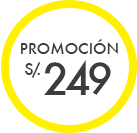
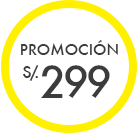
cambios de precios

diff --git a/index.html b/index.html
@@ -8,7 +8,7 @@
   ga('create', 'UA-53745008-2', 'auto');
   ga('send', 'pageview');
 
-</script> 
+</script>
 
 
 <link rel="icon" href="imagenes/favicon.ico">
@@ -56,21 +56,32 @@
 
   </section><section data-role="dispositivos"><div class="title"><div class="wrapper"><h1 id="dsp">NUESTROS DISPOSITIVOS</h1></div></div><ul id="slick-dsp" class="wrapper"><li class="dispositivo"><div class="content"><picture><!--[if IE 9]><video style="display: none;"><![endif]--><!--source(srcset="imagenes/web/olo_movil.png",media="(min-width:1280px)")--><!--source(srcset="imagenes/tablet/olo_movil.png",media="(min-width:768px)")--><!--source(srcset="imagenes/movil/olo_movil.png",media="(min-width:320px)")--><!--[if IE 9]></video><![endif]-->
     <img src="imagenes/web/olo_movil.png"></picture><p class="title">OLO MÓVIL</p><p class="body">Mantente conectado de forma inalámbrica estando en movimiento.
-Duración de hasta  de 6 horas diarias. Conexión hasta de 5 dispositivos.</p><img src="imagenes/movil/precio_movil.png"><p class="strike">Precio regular S/. 269</p><a href="#" class="more"><picture><!--[if IE 9]><video style="display: none;"><![endif]--><!--source(srcset="imagenes/web/boton_quiero_este_olo",media="(min-width:1280px)")--><!--source(srcset="imagenes/tablet/boton_quiero_este_olo",media="(min-width:768px)")--><!--source(srcset="imagenes/movil/boton_quiero_este_olo",media="(min-width:320px)")--><!--[if IE 9]></video><![endif]-->
+Duración de hasta  de 6 horas diarias. Conexión hasta de 5 dispositivos.</p><img src="imagenes/movil/precio_movil.png">
+<p class="strike" style="visibility:hidden" >Precio regular S/. 269</p>
+<a href="#" class="more"><picture><!--[if IE 9]><video style="display: none;"><![endif]--><!--source(srcset="imagenes/web/boton_quiero_este_olo",media="(min-width:1280px)")--><!--source(srcset="imagenes/tablet/boton_quiero_este_olo",media="(min-width:768px)")--><!--source(srcset="imagenes/movil/boton_quiero_este_olo",media="(min-width:320px)")--><!--[if IE 9]></video><![endif]-->
   <img src="imagenes/web/boton_quiero_este_olo.png"></picture></a></div></li><li class="dispositivo"><div class="content"><picture><!--[if IE 9]><video style="display: none;"><![endif]--><!--source(srcset="imagenes/web/olo_clasico.png",media="(min-width:1280px)")--><!--source(srcset="imagenes/tablet/olo_clasico.png",media="(min-width:768px)")--><!--source(srcset="imagenes/movil/olo_clasico.png",media="(min-width:320px)")--><!--[if IE 9]></video><![endif]--><img src="imagenes/web/olo_clasico.png"></picture><p class="title">OLO CLÁSICO</p><p class="body">Ideal para la casa. Conexión de hasta 8 equipos. Diseño moderno y liviano.
-No requiere de línea telefónica para su funcionamiento.</p><img src="imagenes/movil/precio_clasico.png"><p class="strike">Precio regular S/. 259</p><a href="#" class="more"><picture><!--[if IE 9]><video style="display: none;"><![endif]--><!--source(srcset="imagenes/web/boton_quiero_este_olo",media="(min-width:1280px)")--><!--source(srcset="imagenes/tablet/boton_quiero_este_olo",media="(min-width:768px)")--><!--source(srcset="imagenes/movil/boton_quiero_este_olo",media="(min-width:320px)")--><!--[if IE 9]></video><![endif]-->
+No requiere de línea telefónica para su funcionamiento.</p><img src="imagenes/movil/precio_clasico.png">
+<p class="strike" style="visibility:hidden" >Precio regular S/. 259</p>
+<a href="#" class="more"><picture><!--[if IE 9]><video style="display: none;"><![endif]--><!--source(srcset="imagenes/web/boton_quiero_este_olo",media="(min-width:1280px)")--><!--source(srcset="imagenes/tablet/boton_quiero_este_olo",media="(min-width:768px)")--><!--source(srcset="imagenes/movil/boton_quiero_este_olo",media="(min-width:320px)")--><!--[if IE 9]></video><![endif]-->
   <img src="imagenes/web/boton_quiero_este_olo.png"></picture></a></div></li><li class="dispositivo"><div class="content"><picture><!--[if IE 9]><video style="display: none;"><![endif]--><!--source(srcset="imagenes/web/olo_usb.png",media="(min-width:1280px)")--><!--source(srcset="imagenes/tablet/olo_usb.png",media="(min-width:768px)")--><!--source(srcset="imagenes/movil/olo_usb.png",media="(min-width:320px)")--><!--[if IE 9]></video><![endif]-->
     <img src="imagenes/web/olo_usb.png"></picture><p class="title">OLO USB</p><p class="body">Mantente en línea a donde quiera que vayas, conectándose a un solo equipo.
-Es flexible, liviano y fácil de llevar.</p><img src="imagenes/movil/precio_usb.png"><p class="strike">Precio regular S/. 125</p><a href="#" class="more"><picture><!--[if IE 9]><video style="display: none;"><![endif]--><!--source(srcset="imagenes/web/boton_quiero_este_olo",media="(min-width:1280px)")--><!--source(srcset="imagenes/tablet/boton_quiero_este_olo",media="(min-width:768px)")--><!--source(srcset="imagenes/movil/boton_quiero_este_olo",media="(min-width:320px)")--><!--[if IE 9]></video><![endif]-->
+Es flexible, liviano y fácil de llevar.</p><img src="imagenes/movil/precio_usb.png">
+<p class="strike" style="visibility:hidden" >Precio regular S/. 125</p>
+<a href="#" class="more"><picture><!--[if IE 9]><video style="display: none;"><![endif]--><!--source(srcset="imagenes/web/boton_quiero_este_olo",media="(min-width:1280px)")--><!--source(srcset="imagenes/tablet/boton_quiero_este_olo",media="(min-width:768px)")--><!--source(srcset="imagenes/movil/boton_quiero_este_olo",media="(min-width:320px)")--><!--[if IE 9]></video><![endif]-->
   <img src="imagenes/web/boton_quiero_este_olo.png"></picture></a></div></li><li class="dispositivo"><div class="content"><picture><!--[if IE 9]><video style="display: none;"><![endif]--><!--source(srcset="imagenes/web/olo_mini.png",media="(min-width:1280px)")--><!--source(srcset="imagenes/tablet/olo_mini.png",media="(min-width:768px)")--><!--source(srcset="imagenes/movil/olo_mini.png",media="(min-width:320px)")--><!--[if IE 9]></video><![endif]-->
     <img src="imagenes/web/olo_mini.png"></picture><p class="title">OLO MINI</p><p class="body">Mantente conectado de forma inalámbrica estando en movimiento. Hasta 6 horas diarias
-de duración. Conexión hasta 8 productos WiFi.</p><img src="imagenes/movil/precio_clasico.png"><p class="strike">Precio regular S/. 399</p><a href="#" class="more"><picture><!--[if IE 9]><video style="display: none;"><![endif]--><!--source(srcset="imagenes/web/boton_quiero_este_olo",media="(min-width:1280px)")--><!--source(srcset="imagenes/tablet/boton_quiero_este_olo",media="(min-width:768px)")--><!--source(srcset="imagenes/movil/boton_quiero_este_olo",media="(min-width:320px)")--><!--[if IE 9]></video><![endif]-->
+de duración. Conexión hasta 8 productos WiFi.</p><img src="imagenes/movil/precio_mini.png">
+<p class="strike" style="visibility:hidden" >Precio regular S/. 399</p>
+<a href="#" class="more"><picture><!--[if IE 9]><video style="display: none;"><![endif]--><!--source(srcset="imagenes/web/boton_quiero_este_olo",media="(min-width:1280px)")--><!--source(srcset="imagenes/tablet/boton_quiero_este_olo",media="(min-width:768px)")--><!--source(srcset="imagenes/movil/boton_quiero_este_olo",media="(min-width:320px)")--><!--[if IE 9]></video><![endif]-->
   <img src="imagenes/web/boton_quiero_este_olo.png"></picture></a></div></li><li class="dispositivo"><div class="content"><picture><!--[if IE 9]><video style="display: none;"><![endif]--><!--source(srcset="imagenes/web/olo_fijo.png",media="(min-width:1280px)")--><!--source(srcset="imagenes/tablet/olo_fijo.png",media="(min-width:768px)")--><!--source(srcset="imagenes/movil/olo_fijo.png",media="(min-width:320px)")--><!--[if IE 9]></video><![endif]-->
     <img src="imagenes/web/olo_fijo.png"></picture><p class="title">OLO FIJO</p><p class="body">Ideal para la casa u oficina. Conexión de hasta 8 equipos wifi. Fácil de transportar.
-Cuenta con un puerto ethernet y un puerto lan.</p><img src="imagenes/movil/precio_fijo.png"><p class="strike">Precio regular S/. 259</p><a href="#" class="more"><picture><!--[if IE 9]><video style="display: none;"><![endif]--><!--source(srcset="imagenes/web/boton_quiero_este_olo",media="(min-width:1280px)")--><!--source(srcset="imagenes/tablet/boton_quiero_este_olo",media="(min-width:768px)")--><!--source(srcset="imagenes/movil/boton_quiero_este_olo",media="(min-width:320px)")--><!--[if IE 9]></video><![endif]-->
+Cuenta con un puerto ethernet y un puerto lan.</p><img src="imagenes/movil/precio_fijo.png">
+<p class="strike" style="visibility:hidden">Precio regular S/. 259</p>
+<a href="#" class="more"><picture><!--[if IE 9]><video style="display: none;"><![endif]--><!--source(srcset="imagenes/web/boton_quiero_este_olo",media="(min-width:1280px)")--><!--source(srcset="imagenes/tablet/boton_quiero_este_olo",media="(min-width:768px)")--><!--source(srcset="imagenes/movil/boton_quiero_este_olo",media="(min-width:320px)")--><!--[if IE 9]></video><![endif]-->
   <img src="imagenes/web/boton_quiero_este_olo.png"></picture></a></div></li><li class="dispositivo"><div class="content"><picture><!--[if IE 9]><video style="display: none;"><![endif]--><!--source(srcset="imagenes/web/olo_usb.png",media="(min-width:1280px)")--><!--source(srcset="imagenes/tablet/olo_usb.png",media="(min-width:768px)")--><!--source(srcset="imagenes/movil/olo_usb.png",media="(min-width:320px)")--><!--[if IE 9]></video><![endif]-->
     <img src="imagenes/web/olo_usb.png"></picture><p class="title">OLO USB</p><p class="body">Mantente en línea a donde quiera que vayas, conectándose a un solo equipo.
-Es flexible, liviano y fácil de llevar.</p><img src="imagenes/movil/precio_usb.png"><p class="strike">Precio regular S/. 125</p><a href="#" class="more"><picture><!--[if IE 9]><video style="display: none;"><![endif]--><!--source(srcset="imagenes/web/boton_quiero_este_olo",media="(min-width:1280px)")--><!--source(srcset="imagenes/tablet/boton_quiero_este_olo",media="(min-width:768px)")--><!--source(srcset="imagenes/movil/boton_quiero_este_olo",media="(min-width:320px)")--><!--[if IE 9]></video><![endif]-->
+Es flexible, liviano y fácil de llevar.</p><img src="imagenes/movil/precio_usb.png">
+<p class="strike" style="visibility:hidden">Precio regular S/. 125</p><a href="#" class="more"><picture><!--[if IE 9]><video style="display: none;"><![endif]--><!--source(srcset="imagenes/web/boton_quiero_este_olo",media="(min-width:1280px)")--><!--source(srcset="imagenes/tablet/boton_quiero_este_olo",media="(min-width:768px)")--><!--source(srcset="imagenes/movil/boton_quiero_este_olo",media="(min-width:320px)")--><!--[if IE 9]></video><![endif]-->
   <img src="imagenes/web/boton_quiero_este_olo.png"></picture></a></div></li></ul></section><section data-role="planes"><div class="title"><div class="wrapper"><h1 id="pl">PLANES RECOMENDADOS</h1></div></div>
 
 <ul id="slick-pls" class="wrapper">
